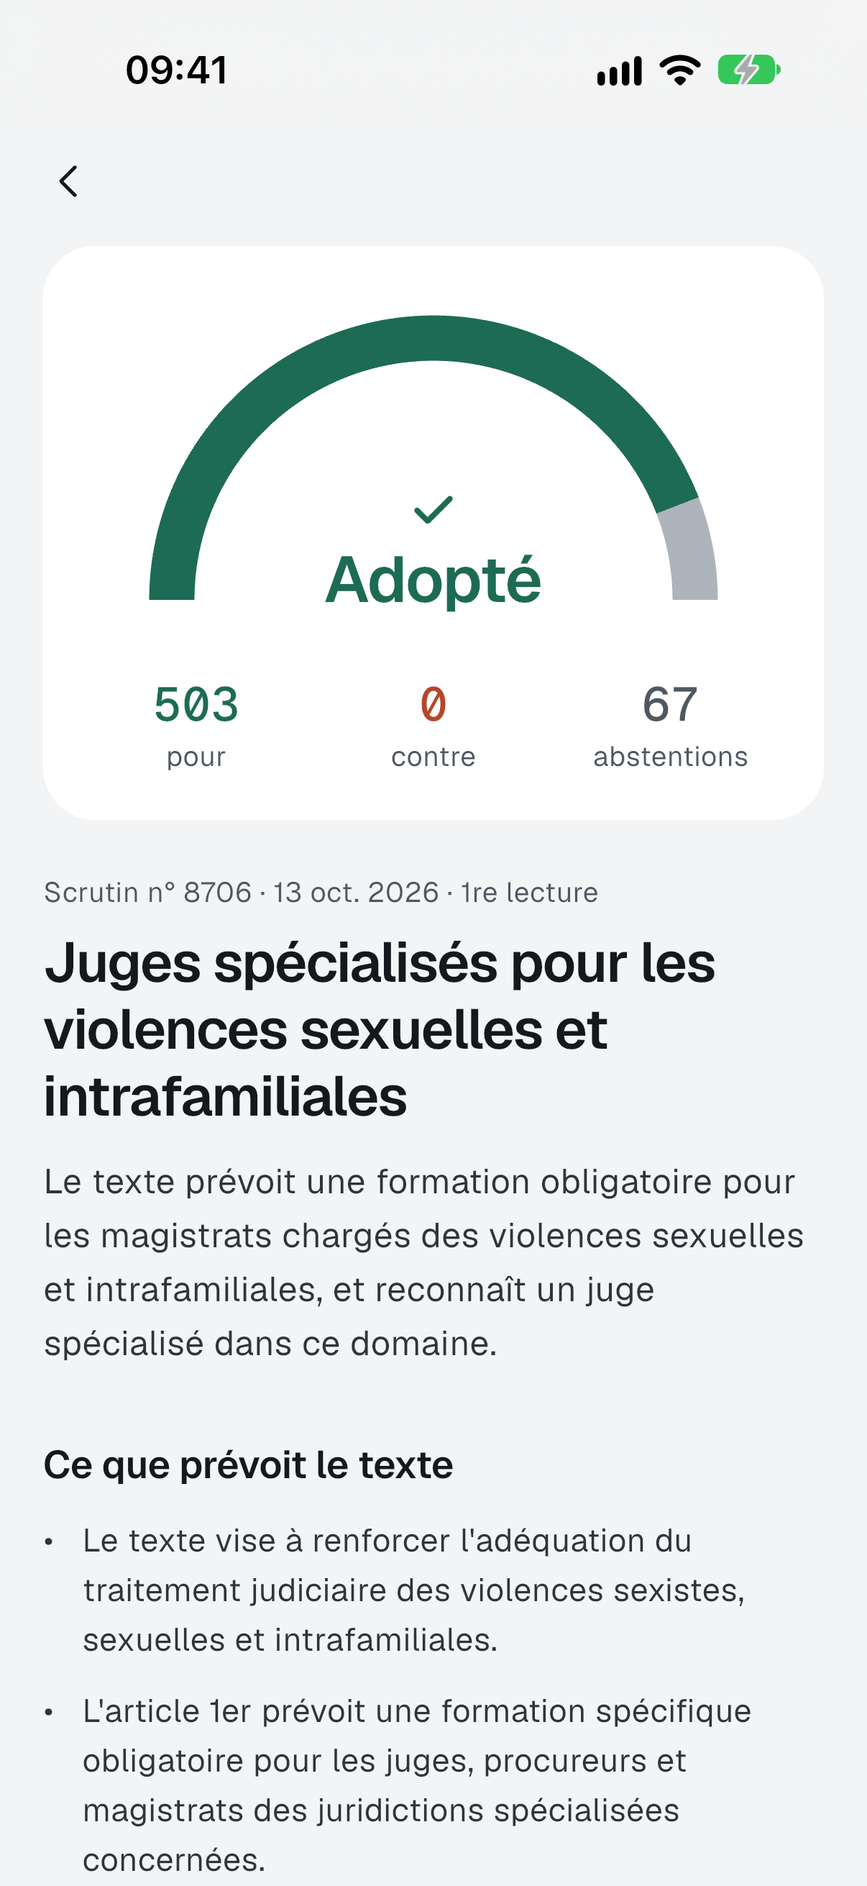
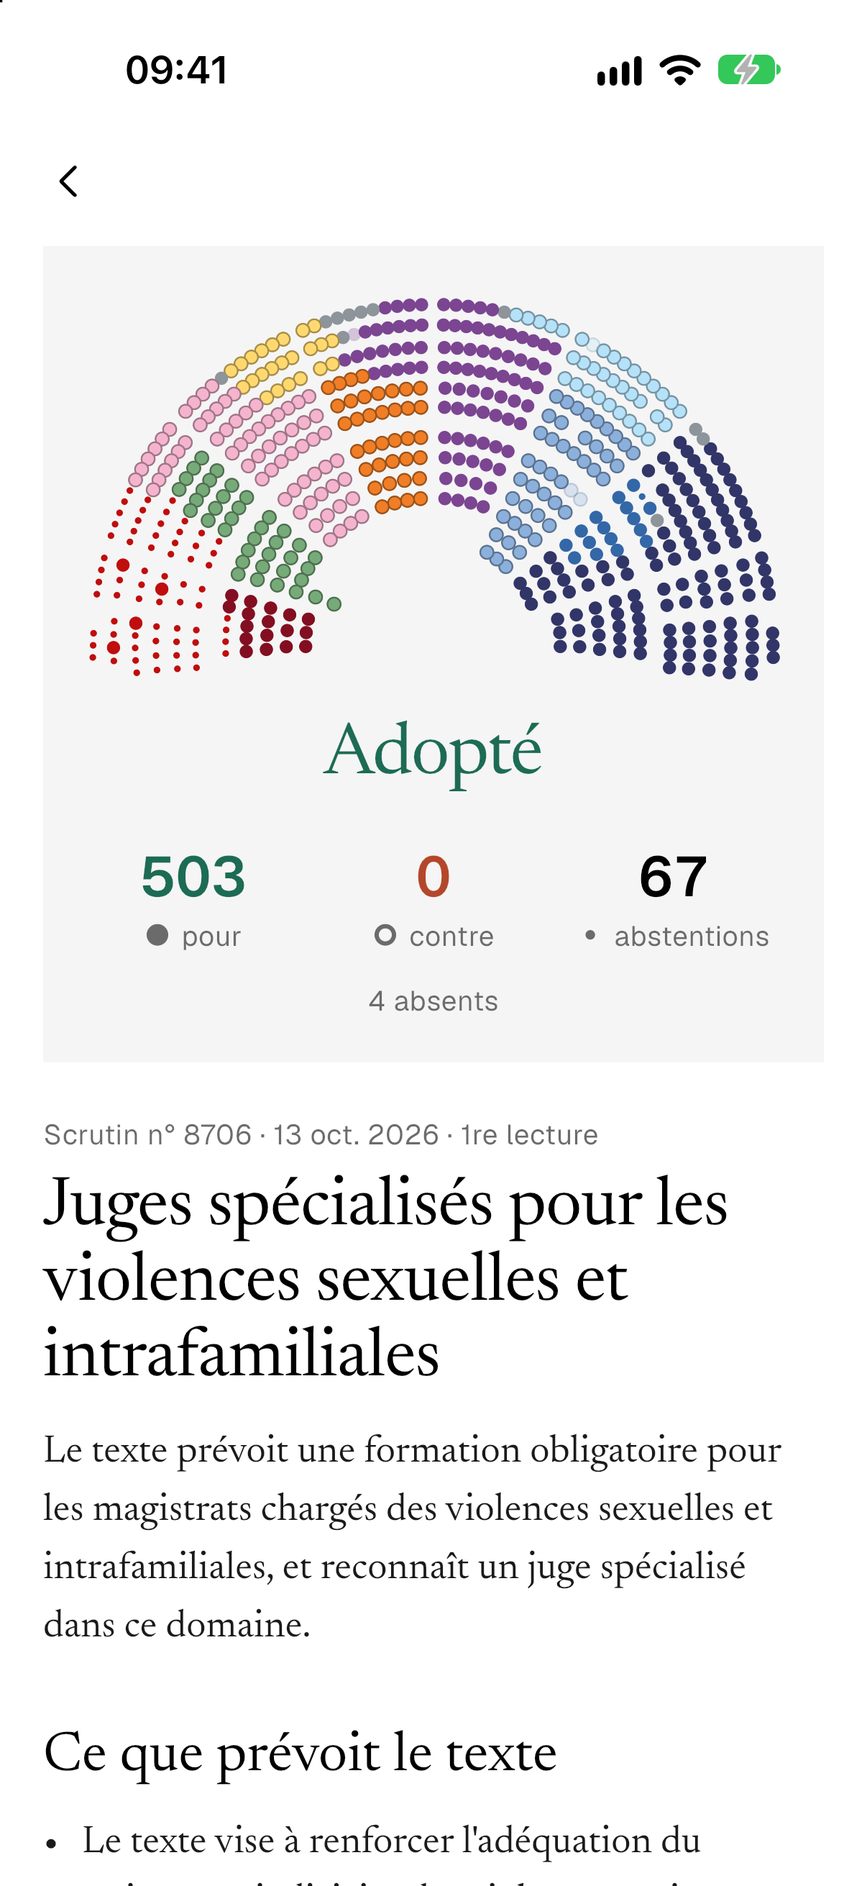
docs(store): fiches et captures des stores pour la nouvelle app (#102)
* fix(android): l'app release ne reste plus bloquée sur l'écran de lancement

shared_preferences_android 2.5.0 (Pigeon JNI) perdait sous R8 les méthodes
Kotlin appelées par JNI : NoSuchMethodError au premier
SharedPreferences.getInstance(), attendu avant runApp. La 2.5.2 ajoute les
règles R8 du plugin ; passage à la 2.5.3.

* docs(store): captures de la nouvelle app et image de présentation

Sept captures par jeu (iPhone 6,9 et 6,3 pouces, Android 1080 × 1920) :
accueil en cartes, détail adopté, « Qui a voté quoi », « En débat », liste,
écran d'accueil avec les widgets posés, détail rejeté de nuit. Données de
production du 25 octobre 2026, PNG sans alpha. Image de présentation au nom
« Le Perchoir ».

* docs(store): fiches App Store et Google Play pour la nouvelle app

Description, texte promotionnel et description courte : accueil en cartes,
hémicycle aux 574 places, « En débat » et sa notification, widgets,
apparence jour ou nuit. Note de version 1.0.0, notes pour l'App Review et
pages web (assistance, confidentialité, accueil) à jour. Confidentialité
revérifiée sur les builds release. Étapes restantes dans docs/release.md.

diff --git a/docs/confidentialite.html b/docs/confidentialite.html
@@ -27,7 +27,7 @@ footer{margin-top:40px;font-size:.875rem;color:var(--ink2)}
 <main>
   <a class="back" href="index.html">← Le Perchoir</a>
   <h1>Politique de confidentialité</h1>
-  <p>Mise à jour le 21 octobre 2026.</p>
+  <p>Mise à jour le 25 octobre 2026.</p>
 
   <div class="card">
     <p><strong>En bref :</strong> Le Perchoir ne demande aucun compte et l'éditeur ne collecte aucune donnée personnelle. Pas de publicité, pas de mesure d'audience, pas de cookies. Seules les notifications, si vous les gardez, passent par un service de Google (Firebase Cloud Messaging).</p>
@@ -45,19 +45,19 @@ footer{margin-top:40px;font-size:.875rem;color:var(--ink2)}
   <p>Les résumés sont rédigés en amont, sur un serveur, par une IA (Claude, d'Anthropic) à partir des textes publics de l'Assemblée. Aucune donnée vous concernant n'est envoyée à Anthropic.</p>
 
   <h2>Notifications</h2>
-  <p>Si vous les autorisez, l'application peut vous prévenir des votes importants. Pour cela :</p>
+  <p>Si vous les autorisez, l'application peut vous prévenir des votes importants et des textes qui passent en débat. Pour cela :</p>
   <ul>
     <li>Firebase Cloud Messaging (Google) attribue à l'installation de l'application un <strong>jeton technique</strong> (identifiant d'installation), avec quelques informations techniques nécessaires à l'envoi (modèle d'appareil, version du système et de l'application, langue, fuseau horaire).</li>
     <li><strong>Finalité :</strong> uniquement l'envoi des notifications. Ce jeton est abonné à un sujet commun (« votes importants ») : le même message part vers tous les abonnés ; aucun message n'est personnalisé.</li>
     <li>Le jeton n'est associé à aucune identité : ni nom, ni e-mail, ni compte. L'éditeur ne le stocke pas et ne le croise avec aucune autre donnée.</li>
     <li>Les bibliothèques Firebase transmettent aussi à Google des informations techniques non rattachées à un identifiant (type d'appareil, versions du système et des bibliothèques), que Google utilise pour ses statistiques d'usage de Firebase. L'éditeur n'y a pas accès.</li>
     <li><strong>Base légale :</strong> votre consentement, donné à la demande d'autorisation du système. Tant que les notifications ne sont pas autorisées, l'application ne demande pas de jeton.</li>
-    <li>Vous pouvez arrêter à tout moment : interrupteur « Votes importants » dans la page À propos de l'application (désabonnement du sujet), ou dans les réglages de notifications de votre téléphone. Supprimer l'application supprime le jeton de l'appareil.</li>
+    <li>Vous pouvez arrêter à tout moment : interrupteur « Notifier les votes solennels » dans la page À propos de l'application (désabonnement du sujet), ou dans les réglages de notifications de votre téléphone. Supprimer l'application supprime le jeton de l'appareil.</li>
   </ul>
   <p>Google agit comme sous-traitant pour ce service et peut traiter ces données hors de l'Union européenne, dans le cadre de ses garanties contractuelles. Voir la <a href="https://firebase.google.com/support/privacy">page confidentialité de Firebase</a>.</p>
 
   <h2>Données stockées sur l'appareil</h2>
-  <p>Vos préférences (par exemple, le choix des notifications) et une copie des dernières décisions, pour l'affichage hors ligne et le widget, sont enregistrées <strong>uniquement sur votre appareil</strong>. Elles ne sont pas transmises à l'éditeur et disparaissent avec l'application.</p>
+  <p>Vos préférences (le choix des notifications et l'apparence jour ou nuit) et une copie des dernières décisions, pour l'affichage hors ligne et le widget, sont enregistrées <strong>uniquement sur votre appareil</strong>. Elles ne sont pas transmises à l'éditeur et disparaissent avec l'application.</p>
 
   <h2>Cookies et traceurs</h2>
   <p>Ni l'application ni ce site n'utilisent de cookies, de traceurs ou de pixels de mesure.</p>

diff --git a/docs/support.html b/docs/support.html
@@ -44,7 +44,7 @@ footer{margin-top:40px;font-size:.875rem;color:var(--ink2)}
     <ol>
       <li>Restez appuyé sur un espace vide de l'écran d'accueil.</li>
       <li>Touchez « Modifier », puis « Ajouter un widget ».</li>
-      <li>Cherchez « Le Perchoir », choisissez une taille (une décision, une décision expliquée, ou les trois dernières), puis « Ajouter le widget ».</li>
+      <li>Cherchez « Le Perchoir », choisissez une taille (petit, moyen ou grand : la dernière décision et son hémicycle, en grand avec le prochain vote solennel), puis « Ajouter le widget ».</li>
     </ol>
     <p><strong>Android :</strong></p>
     <ol>
@@ -52,17 +52,17 @@ footer{margin-top:40px;font-size:.875rem;color:var(--ink2)}
       <li>Touchez « Widgets ».</li>
       <li>Cherchez « Le Perchoir » et faites glisser le widget sur l'écran.</li>
     </ol>
-    <p>Si le widget reste vide, ouvrez l'application une fois. Les étapes sont aussi dans l'application (icône widget en haut de la liste).</p>
+    <p>Si le widget reste vide, ouvrez l'application une fois. Les étapes sont aussi dans l'application (icône widget en haut de l'accueil).</p>
   </details>
 
   <details>
     <summary>Comment activer ou couper les notifications ?</summary>
-    <p>Le Perchoir vous prévient seulement des votes importants : votes solennels, motions de censure, textes de compromis et lectures définitives, et, la veille au soir, l'annonce d'un vote solennel prévu le lendemain, soit une à trois notifications par semaine environ. Pour les couper ou les réactiver : page À propos de l'application, interrupteur « Votes importants ». Vous pouvez aussi les gérer dans les réglages de notifications du téléphone. Si vous aviez refusé l'autorisation, il faut la rétablir dans les réglages du téléphone.</p>
+    <p>Le Perchoir vous prévient seulement des votes importants : votes solennels, motions de censure, textes de compromis et lectures définitives, la veille au soir, l'annonce d'un vote solennel prévu le lendemain, et, le jour même, le texte qui passe en débat. Pour les couper ou les réactiver : page À propos de l'application, interrupteur « Notifier les votes solennels ». Vous pouvez aussi les gérer dans les réglages de notifications du téléphone. Si vous aviez refusé l'autorisation, il faut la rétablir dans les réglages du téléphone.</p>
   </details>
 
   <details>
     <summary>Une décision vient d'avoir lieu et n'apparaît pas.</summary>
-    <p>Une décision apparaît 10 à 30 minutes après le vote, marquée « provisoire », puis est confirmée le lendemain avec le décompte complet et le vote de chaque groupe. Seuls les votes sur l'ensemble d'un texte, les motions de censure, les déclarations du Gouvernement, les rejets préalables et les résolutions ont une fiche détaillée. Les articles votés au scrutin public du texte en débat apparaissent seulement dans la carte « En débat », en tête de liste ; les amendements ne sont pas affichés.</p>
+    <p>Une décision apparaît 10 à 30 minutes après le vote, marquée « provisoire », puis est confirmée le lendemain avec le décompte complet et le vote de chaque groupe. Seuls les votes sur l'ensemble d'un texte, les motions de censure, les déclarations du Gouvernement, les rejets préalables et les résolutions ont une fiche détaillée. Les articles votés au scrutin public du texte en débat apparaissent seulement dans l'écran « En débat », ouvert par la notification du texte qui passe en séance ; les amendements ne sont pas affichés.</p>
   </details>
 
   <details>

diff --git a/docs/index.html b/docs/index.html
@@ -41,11 +41,12 @@ footer{margin-top:40px;font-size:.875rem;color:var(--ink2)}
 
   <h2>Ce que fait l'application</h2>
   <ul>
-    <li>La liste des décisions de l'Assemblée nationale : un titre, une ligne d'explication, adopté ou rejeté.</li>
-    <li>Pour chaque décision, qui a voté quoi, groupe par groupe, et les principaux arguments pour et contre.</li>
-    <li>Les prochains points de l'ordre du jour, dont les votes solennels annoncés, et le texte en cours de débat.</li>
-    <li>Un widget pour l'écran d'accueil (iPhone et Android).</li>
-    <li>Une notification, si vous le souhaitez, pour les votes importants.</li>
+    <li>L'accueil en cartes : le prochain vote solennel, puis les dernières décisions de l'Assemblée nationale, adoptées ou rejetées ; la liste complète, filtrable.</li>
+    <li>Pour chaque décision, l'hémicycle aux 574 places aux couleurs des groupes, qui a voté quoi, groupe par groupe, et les arguments pour et contre.</li>
+    <li>L'écran « En débat » du texte qui passe en séance : ce qu'il prévoit et ses articles déjà votés.</li>
+    <li>Des widgets pour l'écran d'accueil (iPhone et Android), en trois tailles.</li>
+    <li>Une notification, si vous le souhaitez, pour les votes importants et le texte qui passe en débat.</li>
+    <li>L'apparence jour ou nuit, ou celle du téléphone.</li>
   </ul>
 
   <h2>Ce qu'elle ne fait pas</h2>

diff --git a/docs/store/app-store.md b/docs/store/app-store.md
@@ -30,41 +30,48 @@ longueurs entre parenthèses sont comptées en caractères Unicode par
 - **URL de la politique de confidentialité** :
   https://lucasangoston.github.io/vote-du-jour/confidentialite.html
 
-## Texte promotionnel (141) [170]
+## Texte promotionnel (136) [170]
 
 Modifiable sans nouvelle version.
 
 ```text
-Chaque décision de l'Assemblée nationale en bref : le résultat, qui a voté quoi et les arguments pour et contre. Sans compte, sans publicité.
+Chaque décision de l'Assemblée nationale en bref : l'hémicycle aux 574 places, qui a voté quoi et pourquoi. Sans compte, sans publicité.
 ```
 
-## Description (2239) [4000]
+## Description (3015) [4000]
 
 ```text
 Le Perchoir résume les décisions de l'Assemblée nationale : chaque vote sur l'ensemble d'un texte, chaque motion de censure, chaque résolution, en quelques mots.
 
+L'ACCUEIL EN CARTES
+Chaque jour, des cartes à faire défiler : le prochain vote solennel inscrit à l'ordre du jour, puis les dernières décisions, chacune avec son résultat et son hémicycle. Le bouton « Toutes les décisions » ouvre la liste complète, jour par jour, filtrable : textes, résolutions, motions.
+
 POUR CHAQUE DÉCISION
-• Un titre clair et une ligne d'explication
+• L'hémicycle aux 574 places : chaque député à sa place réelle, à la couleur officielle de son groupe, et son vote d'un coup d'œil (rond plein pour, anneau contre, petit point abstention)
 • Le résultat : adopté ou rejeté, avec le décompte des voix pour les scrutins publics
-• Qui a voté quoi, groupe par groupe
+• Un titre clair et une ligne d'explication
 • Ce que prévoit le texte, en quelques points
-• Les principaux arguments pour et contre, tirés des débats
+• Qui a voté quoi, groupe par groupe : touchez un groupe pour allumer ses sièges
+• Pourquoi ils ont voté ainsi : les arguments des groupes, pour et contre, tirés des débats
 • Les liens vers le scrutin et le dossier législatif officiels
 
-À VENIR ET EN DÉBAT
-En tête de liste, les prochains points de l'ordre du jour de l'Assemblée, dont les votes solennels annoncés, et le texte en cours de débat avec ses derniers articles votés au scrutin public.
+EN DÉBAT
+Le jour où un texte passe en séance, une notification (si vous les avez activées) l'annonce et ouvre l'écran « En débat » : ce que prévoit le texte, ses articles déjà votés au scrutin public et la date du vote final quand elle est connue.
 
-WIDGET
-Les dernières décisions sur l'écran d'accueil, en trois tailles : la dernière décision, la dernière décision expliquée, ou les trois dernières.
+WIDGETS
+Les dernières décisions sur l'écran d'accueil, en trois tailles : la dernière décision avec son hémicycle coloré par le vote, et, en grand, le prochain vote solennel en bas. Sans décision récente, le petit et le moyen widget annoncent le prochain vote solennel.
 
 NOTIFICATIONS, SI VOUS LE SOUHAITEZ
-Une notification pour les votes importants seulement : votes solennels, motions de censure, textes de compromis et lectures définitives, et la veille au soir l'annonce d'un vote solennel. Une à trois par semaine environ, désactivables à tout moment.
+Une notification pour les votes importants seulement : votes solennels, motions de censure, textes de compromis et lectures définitives ; la veille au soir, l'annonce d'un vote solennel ; le jour même, le texte qui passe en débat. Désactivables à tout moment.
 
 DÉLAI
 Une décision apparaît 10 à 30 minutes après le vote, marquée « provisoire », puis est confirmée le lendemain avec le décompte complet et le vote de chaque groupe. Les votes sur les amendements et les articles n'ont pas de fiche détaillée.
 
+JOUR OU NUIT
+Apparence jour, nuit, ou celle du téléphone.
+
 SANS COMPTE, SANS PUBLICITÉ, SANS SUIVI
-Aucune inscription. Aucune mesure d'audience. Mode sombre inclus.
+Aucune inscription. Aucune mesure d'audience.
 
 SOURCES ET RÉSUMÉS PAR IA
 Les données viennent de l'open data de l'Assemblée nationale (Licence Ouverte Etalab). Les titres, explications, points clés et arguments sont rédigés automatiquement par une IA (Claude, d'Anthropic), avec une consigne de neutralité, à partir des textes et des comptes rendus des débats, sans relecture humaine. Ils peuvent contenir des erreurs : seuls le texte officiel et le résultat du vote font foi. Chaque décision renvoie vers les pages officielles.
@@ -84,19 +91,47 @@ déjà indexés, inutile de les répéter.
 député,députés,loi,scrutin,vote,parlement,politique,censure,hémicycle,législatif,widget,France,AN
 ```
 
+## Note de version 1.0.0 (282) [4000]
+
+Champ « Nouveautés de cette version ». App Store Connect ne le propose
+qu'à partir de la deuxième version : s'il n'apparaît pas pour la 1.0.0, rien
+à coller (même texte que la note de version Google Play).
+
+```text
+Première version : les décisions de l'Assemblée nationale en bref. Accueil en cartes, hémicycle aux 574 places aux couleurs des groupes, « Qui a voté quoi » et les arguments de chaque groupe, écran « En débat », notifications des votes importants, widgets et apparence jour ou nuit.
+```
+
 ## Captures
 
 - iPhone 6,9 pouces (1320 × 2868, iPhone 17/18 Pro Max) :
-  `docs/store/visuels/ios-6.9/` (6 PNG).
+  `docs/store/visuels/ios-6.9/` (7 PNG).
 - iPhone 6,3 pouces (1206 × 2622, iPhone 17/18 Pro) :
-  `docs/store/visuels/ios-6.3/` (6 PNG), même ordre.
+  `docs/store/visuels/ios-6.3/` (7 PNG), même ordre.
+
+Ordre de dépôt (captures du 25 octobre 2026, simulateur iOS, barre d'état
+9:41, données de production) :
+
+1. `1-accueil` : l'accueil en cartes, carte d'une décision adoptée et son
+   hémicycle (jour).
+2. `2-detail-adopte` : détail d'une décision adoptée, hémicycle aux 574
+   places et décompte (jour).
+3. `3-qui-a-vote-quoi` : « Qui a voté quoi », groupes rangés par position
+   (jour).
+4. `4-en-debat` : l'écran « En débat » du texte en séance (jour).
+5. `5-liste` : toutes les décisions, avec les filtres (jour).
+6. `6-widgets` : écran d'accueil du téléphone avec le grand et le petit
+   widget, posés pour de vrai.
+7. `7-detail-rejete-nuit` : détail d'une décision rejetée, apparence nuit.
+
+PNG RGB sans canal alpha (« Images can't include alpha channels or
+transparencies »).
 
 La page « Screenshot specifications » d'Apple
 (https://developer.apple.com/help/app-store-connect/reference/app-information/screenshot-specifications/,
-relue le 21 octobre 2026) se contredit : la section « Required device sizes »
-demande au moins une capture « iPhone with Dynamic Island (medium display) »
-(6,3"), tandis que le tableau ne rend obligatoire que le 6,9" (ou à défaut le
-6,5"). Les deux jeux sont fournis : déposer le 6,9" et le 6,3".
+relue le 25 octobre 2026) demande au moins une capture « iPhone with Dynamic
+Island (medium display) » (6,3", 1206 × 2622 accepté) et accepte 1320 × 2868
+pour le « large display » (6,9"). Les deux jeux sont fournis : déposer le
+6,9" et le 6,3". De 1 à 10 captures par taille.
 
 Pas de captures iPad : l'app est déclarée iPhone seulement
 (`TARGETED_DEVICE_FAMILY = 1`, #50).
@@ -142,6 +177,16 @@ Sources :
   (Analytics) ; `NSPrivacyTracking = false`.
 - Manifeste de `FirebaseInstallations` : `OtherDiagnosticData` (Analytics, non
   lié, pas de suivi).
+- Manifeste de `GoogleDataTransport` (dépendance de FirebaseMessaging) :
+  `OtherDiagnosticData` (Analytics, non lié, pas de suivi), déjà couvert par
+  la ligne Diagnostics.
+- Revérifié le 25 octobre 2026 sur l'archive Release de la nouvelle app
+  (`flutter build ipa --no-codesign`) : mêmes dépendances (`firebase_core`,
+  `firebase_messaging`), aucun autre manifeste ne déclare de collecte (app,
+  widget, `shared_preferences`, `url_launcher`, GoogleUtilities). Les
+  préférences (`shared_preferences` : notifications, apparence), le cache des
+  décisions et l'instantané des widgets (App Group) restent sur l'appareil :
+  rien à déclarer.
 - Doc Firebase « Apple App Store data collection »
   (https://firebase.google.com/docs/ios/app-store-data-collection, mise à jour
   le 21 octobre 2026) : FirebaseMessaging collecte toujours le jeton APNs
@@ -177,11 +222,13 @@ Data: public open data published by the Assemblée nationale (data.assemblee-nat
 
 AI-generated content: titles, one-line explanations, key points and arguments for/against are generated server-side, ahead of time, by Claude (Anthropic) from the official texts and debate transcripts, with a neutrality instruction. Users cannot prompt the AI. This is disclosed in the About screen and the store description; every decision links to the official vote and legislative file.
 
-Notifications (optional): after the user opens a decision for the first time, the app asks for notification permission. If granted, the device subscribes to a single Firebase Cloud Messaging topic ("votes-importants": solemn votes, motions of censure, final readings, and the evening before a scheduled solemn vote), about 1 to 3 per week. They can be turned off in About > "Votes importants". No push token is sent to our server.
+Notifications (optional): after the user opens a decision for the first time, the app asks for notification permission. If granted, the device subscribes to a single Firebase Cloud Messaging topic ("votes-importants": solemn votes, motions of censure, final readings, the evening before a scheduled solemn vote, and the day a bill comes up for debate, which opens the "En débat" screen). They can be turned off in About (ⓘ icon on the home screen) > "Notifier les votes solennels". No push token is sent to our server.
 
-Home screen widget: long-press the Home Screen > Edit > Add Widget > "Le Perchoir" (small, medium and large sizes).
+Home screen widget: long-press the Home Screen > Edit > Add Widget > "Le Perchoir" (small, medium and large sizes). The steps are also in the app (widget icon at the top of the home screen).
 
-Content: the list starts with "À venir" (upcoming items of the official agenda, also from Assemblée nationale open data), then past decisions. Votes take place only when the Assembly sits; outside session weeks the list shows the latest decisions with their dates.
+Content: the home screen shows swipeable cards (the next solemn vote on the official agenda, also from Assemblée nationale open data, then the latest decisions); "Toutes les décisions" opens the full list. Votes take place only when the Assembly sits; outside session weeks the app shows the latest decisions with their dates.
+
+Appearance: Auto (follows the system), Jour (light) or Nuit (dark), in About.
 
 Contact: Lucas Angoston, lucasangostonpro@gmail.com
 ```

diff --git a/docs/release.md b/docs/release.md
@@ -73,3 +73,51 @@ flutter build ipa
 
 L'app est déclarée sans chiffrement soumis à l'export
 (`ITSAppUsesNonExemptEncryption = false`) : pas de questionnaire à chaque envoi.
+
+## Première soumission : ce qui reste à faire
+
+État au 25 octobre 2026 : `flutter build appbundle` et
+`flutter build ipa --no-codesign` passent ; textes prêts dans
+`docs/store/app-store.md` et `docs/store/google-play.md` (longueurs
+recomptées par `docs/store/compter.py`) ; captures dans `docs/store/visuels/`.
+Le reste demande un compte ou une console, donc l'éditeur.
+
+### Comptes et signature
+
+- [ ] Apple Developer Program actif (99 €/an), compte connecté dans Xcode.
+- [ ] Compte développeur Google Play (25 $, vérification d'identité).
+- [ ] Android : clé d'upload et `app/android/key.properties` (voir plus
+  haut), puis `flutter build appbundle` signé.
+- [ ] iOS : `flutter build ipa` signé (certificat et profils créés par Xcode),
+  envoi avec Transporter ou l'Organizer.
+
+### App Store Connect
+
+- [ ] Créer l'app : nom « Le Perchoir », langue principale français, bundle
+  `com.lucasangoston.votedujour`, SKU au choix.
+- [ ] Coller les textes de `docs/store/app-store.md` : sous-titre, texte
+  promotionnel, description, mots-clés, URLs, copyright, catégories.
+- [ ] Déposer les captures `ios-6.9/` et `ios-6.3/` (7 chacune, dans l'ordre
+  des noms).
+- [ ] Questionnaires : classification par âge, confidentialité de l'app
+  (tableau de la fiche), droits sur le contenu, notes pour l'App Review.
+- [ ] TestFlight : testeurs internes, puis soumettre la version 1.0.0.
+
+### Play Console
+
+- [ ] Créer l'app (gratuite, application), coller les textes de
+  `docs/store/google-play.md`, déposer icône, image de présentation et les
+  7 captures `android/`.
+- [ ] Contenu de l'application : accès, annonces, sécurité des données,
+  public cible, classification IARC, déclaration « Actualités et magazines »,
+  identifiant publicitaire.
+- [ ] Tests internes, puis test fermé : au moins 12 testeurs inscrits
+  14 jours d'affilée (compte personnel récent), puis demande d'accès à la
+  production avec la note de version 1.0.0.
+
+### Avant d'envoyer
+
+- [x] GitHub Pages actif (`main`, `docs/`) : les pages d'assistance et de
+  confidentialité des fiches répondent ; elles se mettent à jour au merge.
+- [ ] Vérifier sur un vrai téléphone de chaque plateforme : lancement de la
+  build release, notifications, widgets.
